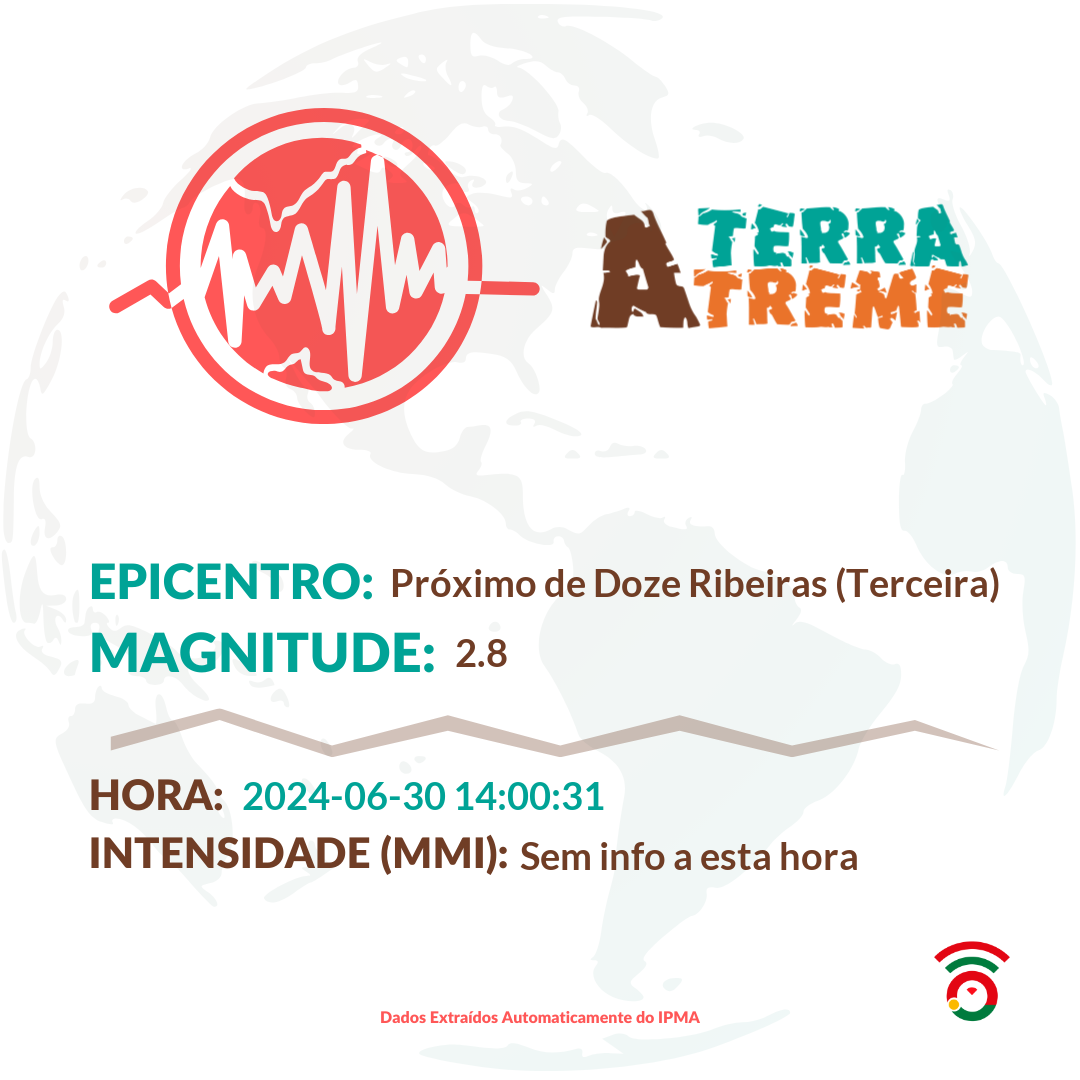
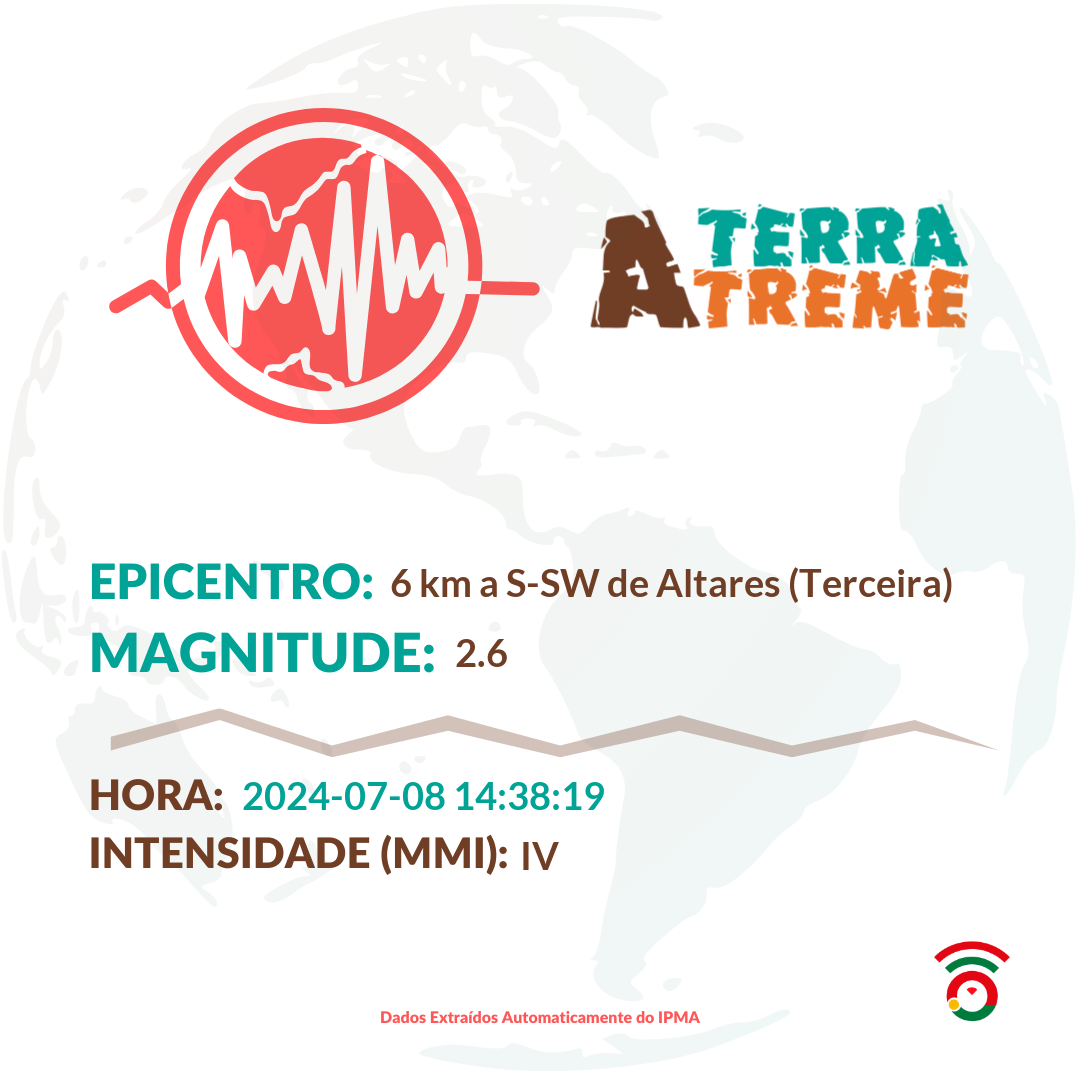
Fixes and modification for tweet image creation

diff --git a/graph.py b/graph.py
@@ -8,6 +8,7 @@ from sqlalchemy.ext.declarative import declarative_base
 from sqlalchemy.orm import sessionmaker
 from dotenv import load_dotenv
 import os
+from PIL import Image, ImageFont, ImageDraw
 
 def update_data():
     # Reopen the session to ensure new data is captured
@@ -160,6 +161,35 @@ def update_dropdown_and_map(n_intervals):
                             center=dict(lat=37.200, lon=-18.000))
     fig.update_layout(mapbox_style="open-street-map")
     fig.update_layout(margin={"r": 0, "t": 0, "l": 0, "b": 0})
+
+    image = px.scatter_mapbox(df,
+                            lat='latitude',
+                            lon='longitude',
+                            hover_name='title',
+                            hover_data=['intensity', 'location'],
+                            color=df['scale'],
+                            color_continuous_scale=custom_colors,
+                            range_color=[1, 10],
+                            size=df['scale'] * 20,
+                            zoom=12,
+                            center=dict(lat=df['latitude'].iloc[-1], lon=df['longitude'].iloc[-1]))
+    image.update_layout(mapbox_style="open-street-map")
+    image.update_layout(margin={"r": 0, "t": 0, "l": 0, "b": 0})
+
+    xy_1 = (455, 500)
+    xy_2 = (535, 580)
+
+    outline_color = 'red'
+    outline_width = 5
+
+    image.write_image("assets/MAPA_SISMO.png", width=1080, height=1080)
+    img = Image.open("assets/MAPA_SISMO.png")
+    draw = ImageDraw.Draw(img)
+    draw.line([xy_1[0], xy_1[1], xy_2[0], xy_1[1]], fill=outline_color, width=outline_width)  # Superior
+    draw.line([xy_2[0], xy_1[1], xy_2[0], xy_2[1]], fill=outline_color, width=outline_width)  # Direito
+    draw.line([xy_2[0], xy_2[1], xy_1[0], xy_2[1]], fill=outline_color, width=outline_width)  # Inferior
+    draw.line([xy_1[0], xy_2[1], xy_1[0], xy_1[1]], fill=outline_color, width=outline_width)  # Esquerdo
+    img.save("assets/MAPA_SISMO.png")
 
     return dropdown_options, initial_value, fig
 

diff --git a/create_image.py b/create_image.py
@@ -76,7 +76,7 @@ if __name__ == "__main__":
     Base = declarative_base()
 
 
-    latest_data = update_data().iloc[0]
+    latest_data = update_data().iloc[-1]
 
     # Load the image template
     img_path = "assets/SISMO_TEMPLATE_AUTO.png"
@@ -103,3 +103,16 @@ if __name__ == "__main__":
 
     # Save the modified image
     img.save("assets/SISMO_TEMPLATE_MODIFIED.png")
+
+    img_final = Image.new("RGB", (2160, 1080), color="white")
+
+
+    img_path = "assets/SISMO_TEMPLATE_MODIFIED.png"
+    img_info = Image.open(img_path)
+    img_path = "assets/MAPA_SISMO.png"
+    img_map = Image.open(img_path)
+
+    img_final.paste(img_info, (0, 0))
+    img_final.paste(img_map, (1080, 0))
+
+    img_final.save("assets/SISMO_TWEET.png")
